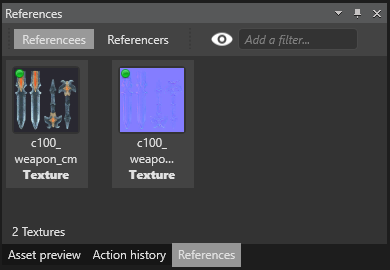
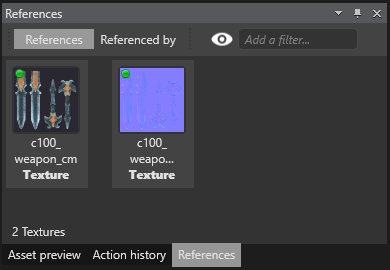
[Assets] update screenshot with latest text

Changed region(s): [[0.2462, 0.1185, 0.4615, 0.1778], [0.0615, 0.1185, 0.2154, 0.1778]]

diff --git a/en/manual/game-studio/use-assets.md b/en/manual/game-studio/use-assets.md
@@ -47,12 +47,12 @@ To clear a reference to an asset, in the **asset dock**, click ![eraser](media/u
 
 ## Examine references
 
-You can examine the references in a selected asset in the **References** in the bottom-right corner of Game Studio.
-
-* The **Referencees** tab displays the assets referenced by the selected asset. 
-* The **Referencers** tab displays the assets that reference the selected asset.
+You can see the references in a selected asset in the **References** tab. By default, this is in the bottom right of Game Studio.
 
 ![References tab](media/use-assets-references-tab.png)
+
+* The **References** tab displays the assets referenced by the selected asset. 
+* The **Referenced by** tab displays the assets that reference the selected asset.
 
 > [!Tip]
 > If you can't see the References tab, make sure it's displayed under **View > References**.
